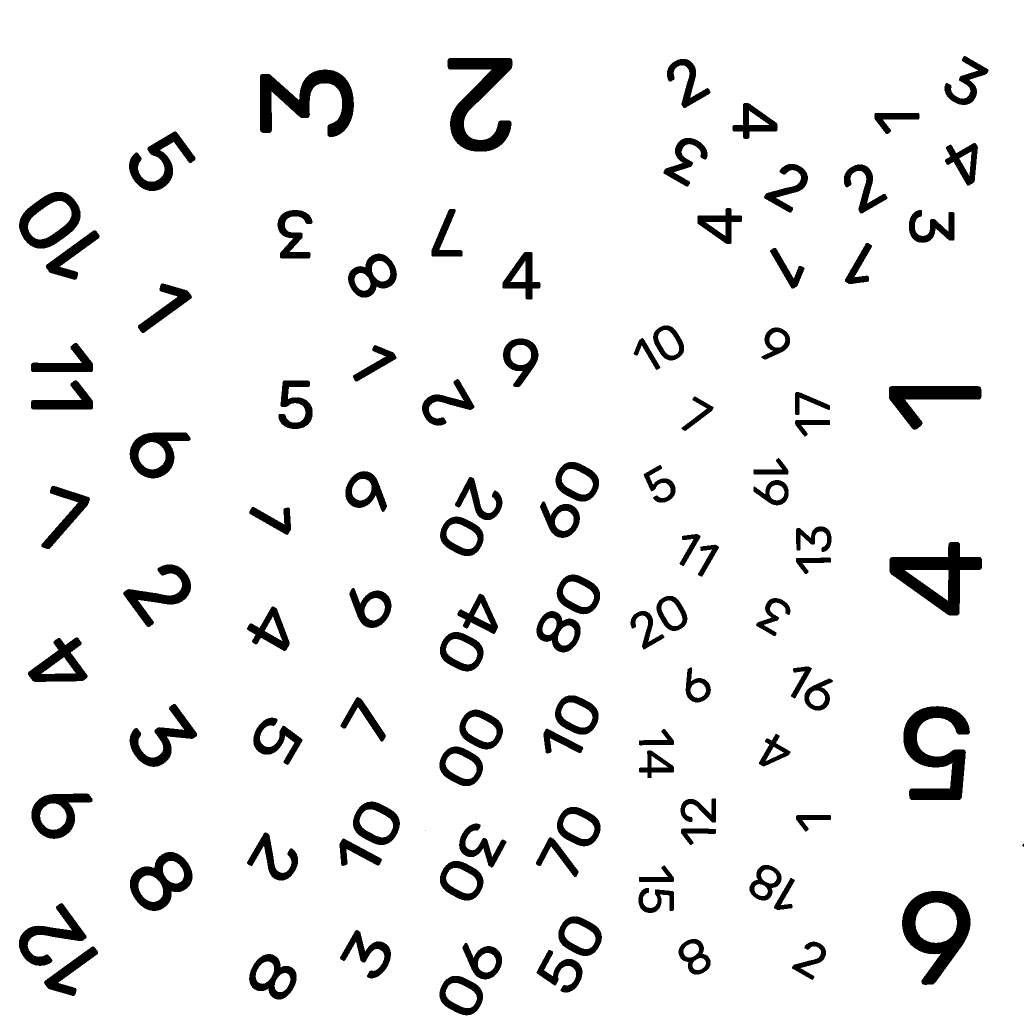
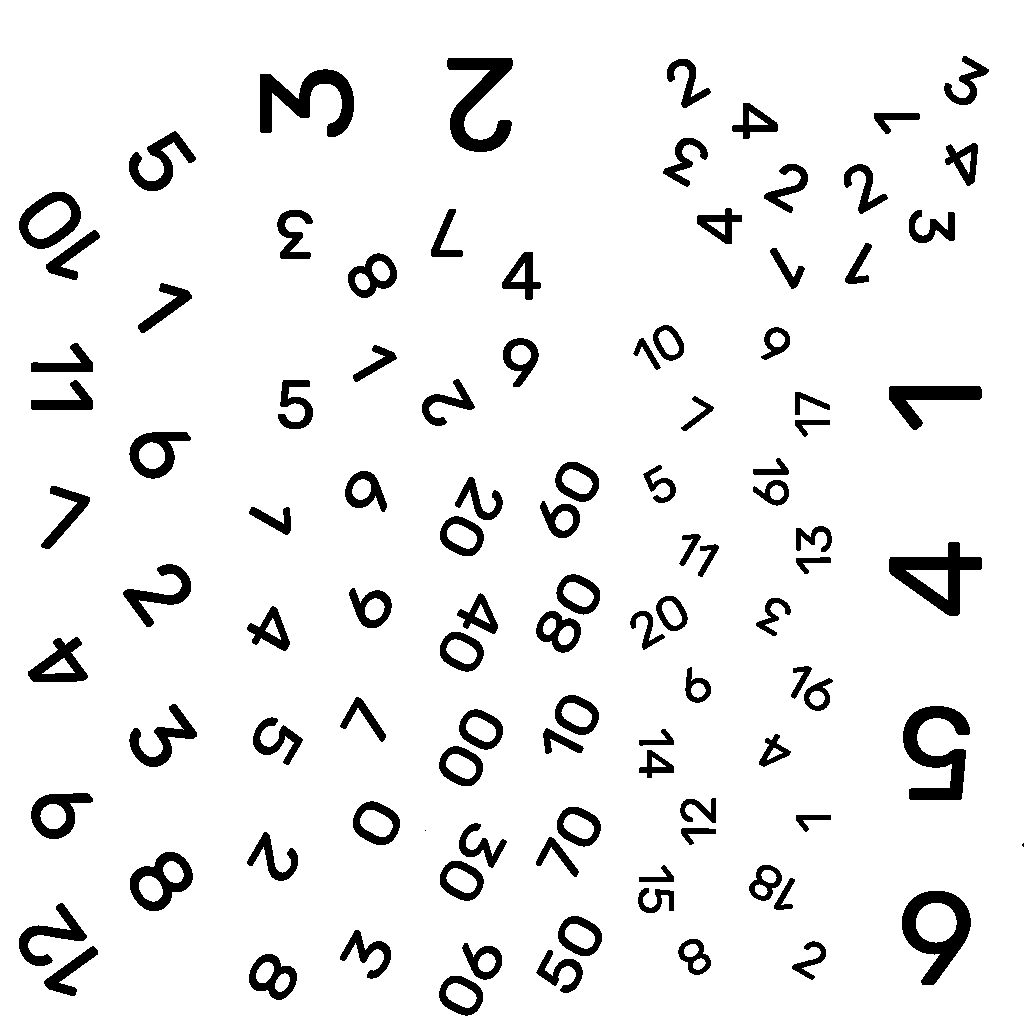
Number d10 rolls from zero to nine

Changed region(s): [[0.3125, 0.8125, 0.375, 0.8438]]

diff --git a/src/components/DiceRoller/diceRollResults.ts b/src/components/DiceRoller/diceRollResults.ts
@@ -36,40 +36,44 @@ function getRollValue(...values: Array<number | undefined>) {
   return values.find((value) => typeof value === 'number' && Number.isFinite(value)) ?? 0;
 }
 
+function normalizeRollValue(sides: DieSize, value: number) {
+  return sides === 10 && value === 10 ? 0 : value;
+}
+
 function toRollResult(groups: DiceBoxRoll[]): RollResult {
   const rolls = groups.flatMap((group) => {
     if (!group.rolls?.length) {
+      const sides = normalizeDieSize(group.sides ?? group.dieType);
       return [
         {
-          sides: normalizeDieSize(group.sides ?? group.dieType),
-          value: getRollValue(group.value, group.result),
+          sides,
+          value: normalizeRollValue(sides, getRollValue(group.value, group.result)),
         },
       ];
     }
 
     return group.rolls.map((roll) => {
       const isSingleDieGroup = group.rolls?.length === 1;
+      const sides = normalizeDieSize(roll.sides ?? roll.dieType ?? group.sides ?? group.dieType);
       return {
-        sides: normalizeDieSize(roll.sides ?? roll.dieType ?? group.sides ?? group.dieType),
-        value: getRollValue(
-          roll.value,
-          roll.result,
-          isSingleDieGroup ? group.value : undefined,
-          isSingleDieGroup ? group.result : undefined,
+        sides,
+        value: normalizeRollValue(
+          sides,
+          getRollValue(
+            roll.value,
+            roll.result,
+            isSingleDieGroup ? group.value : undefined,
+            isSingleDieGroup ? group.result : undefined,
+          ),
         ),
       };
     });
   });
 
-  const groupedTotal = groups.reduce(
-    (sum, group) => sum + getRollValue(group.value, group.result),
-    0,
-  );
-
   return {
     id: Date.now() * 1000 + (resultIdCounter++ % 1000),
     rolls,
-    total: groupedTotal || rolls.reduce((sum, roll) => sum + roll.value, 0),
+    total: rolls.reduce((sum, roll) => sum + roll.value, 0),
   };
 }
 
@@ -84,7 +88,9 @@ function isValidRollResult(result: RollResult, selectedDice: RollDie[]) {
   });
 
   for (const roll of result.rolls) {
-    if (!Number.isInteger(roll.value) || roll.value < 1 || roll.value > roll.sides) return false;
+    const minimum = roll.sides === 10 ? 0 : 1;
+    const maximum = roll.sides === 10 ? 9 : roll.sides;
+    if (!Number.isInteger(roll.value) || roll.value < minimum || roll.value > maximum) return false;
     actualCounts.set(roll.sides, (actualCounts.get(roll.sides) ?? 0) + 1);
   }
 
@@ -95,7 +101,7 @@ function createRandomRollResult(dice: RollDie[], random: () => number = Math.ran
   return toRollResult(
     dice.map(({ sides }) => ({
       sides,
-      value: Math.floor(random() * sides) + 1,
+      value: sides === 10 ? Math.floor(random() * 10) : Math.floor(random() * sides) + 1,
     })),
   );
 }

diff --git a/src/components/DiceRoller/DiceRoller.spec.ts b/src/components/DiceRoller/DiceRoller.spec.ts
@@ -28,6 +28,17 @@ describe('DiceRoller results', () => {
     expect(isValidRollResult(result, [{ id: 1, sides: 20 }])).toBe(false);
   });
 
+  it('uses zero through nine for d10 results', () => {
+    const zero = toRollResult([{ dieType: 'd10', sides: 10, value: 10 }]);
+    const nine = toRollResult([{ dieType: 'd10', sides: 10, value: 9 }]);
+
+    expect(zero.rolls).toEqual([{ sides: 10, value: 0 }]);
+    expect(zero.total).toBe(0);
+    expect(isValidRollResult(zero, [{ id: 1, sides: 10 }])).toBe(true);
+    expect(nine.rolls).toEqual([{ sides: 10, value: 9 }]);
+    expect(isValidRollResult(nine, [{ id: 1, sides: 10 }])).toBe(true);
+  });
+
   it('rejects incomplete or mismatched result sets', () => {
     const result = toRollResult([{ dieType: 'd6', sides: 6, value: 5 }]);
 
@@ -60,6 +71,22 @@ describe('DiceRoller results', () => {
       { sides: 20, value: 20 },
     ]);
     expect(result.total).toBe(21);
+    expect(isValidRollResult(result, dice)).toBe(true);
+  });
+
+  it('creates fallback d10 results from zero through nine', () => {
+    const dice = [
+      { id: 1, sides: 10 as const },
+      { id: 2, sides: 10 as const },
+    ];
+    const values = [0, 0.999];
+    const result = createRandomRollResult(dice, () => values.shift() ?? 0);
+
+    expect(result.rolls).toEqual([
+      { sides: 10, value: 0 },
+      { sides: 10, value: 9 },
+    ]);
+    expect(result.total).toBe(9);
     expect(isValidRollResult(result, dice)).toBe(true);
   });
 });